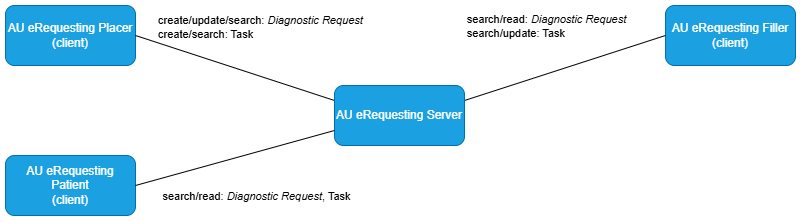
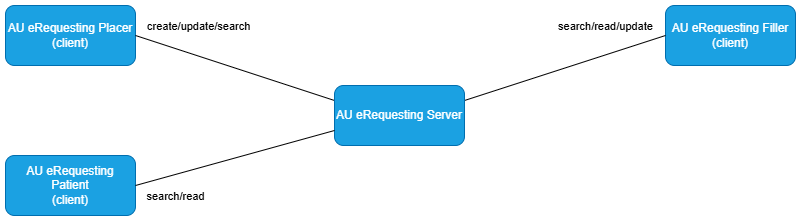
Updates during refinement meeting WIP

diff --git a/input/pagecontent/general-guidance.md b/input/pagecontent/general-guidance.md
@@ -1,14 +1,14 @@
 ### Diagnostic request grouping
 
-In AU eRequesting, grouping is applied to diagnostic requests created by an AU eRequesting Placer actor. This reflects common patterns in Australia, where multiple related pathology tests or imaging exams are ordered in a single request.
+**check page for updates**
 
-AU eRequesting follows the [shared requisition id pattern](https://hl7.org/fhir/request.html#requisitionid) from the [FHIR Request pattern](https://hl7.org/fhir/request.html), where multiple request resources created as part of the same ordering event share a common requisition id. In this context, the Placer Group Number (PGN) is used as the shared identifier, assigned by the AU eRequesting Placer actor at the time of request creation.
+In AU eRequesting, grouping is applied to diagnostic requests created by an AU eRequesting Placer actor. This reflects common patterns in Australia, where multiple related pathology tests or imaging exams are ordered in a single event.
 
-**ADD to intro information about Task and Task Group**
-
-Each diagnostic request is represented as a ServiceRequest and is paired with a corresponding Diagnostic Request Task, which allows the AU eRequesting Filler actor to manage and track fulfilment of that individual request.
+AU eRequesting follows the [shared requisition id pattern](https://hl7.org/fhir/request.html#requisitionid) from the [FHIR Request pattern](https://hl7.org/fhir/request.html), where multiple request resources created as part of the same ordering event share a common requisition id/group identifier. In this context, the Placer Group Number (PGN) is used as the shared identifier, assigned by the AU eRequesting Placer actor at the time of request creation.
 
 A Task Group is always included to represent and coordinate the overall diagnostic order. It allows the AU eRequesting Filler actor to manage the group as a single order, supporting fulfilment, progress tracking and status updates across the group.
+
+Each diagnostic request is represented as a ServiceRequest and is paired with a corresponding Diagnostic Request Task, which allows the AU eRequesting Filler actor to manage and track fulfilment of that individual request.
 
  <div> 
     <img src="erequesting-group.png" alt="AU eRequesting Diagnostic Request Grouping" style="width:90%"/>
@@ -16,6 +16,9 @@ A Task Group is always included to represent and coordinate the overall diagnost
 *Figure 1: AU eRequesting Diagnostic Request Grouping*
 
 #### Diagnostic request grouping features
+
+**check page for updates**
+
 - A group **SHALL** always be established, even when the order contains only a single diagnostic request. This ensures implementation consistency and enables uniform fulfilment processing
 - Each diagnostic request is represented as a ServiceRequest, one for each test or exam, and is paired with a corresponding Task for fulfilment tracking
 - A single group FHIR Task resource  is the root of the entire request structure, or web of resources 
@@ -28,10 +31,7 @@ A Task Group is always included to represent and coordinate the overall diagnost
 - Placer Group Number (PGN) identifier is used to logically associate all related requests and tasks that were created as part of the same request order:
     - `ServiceRequest.requisition` = Placer Group Number (PGN) identifier
     - `Task.groupIdentifier` = Placer Group Number (PGN) identifier
-- The `displaySequence` element on ServiceRequest reflects the visual order or sequence of requests as they appear on a paper request form
-- The `supportingInfo` element on ServiceRequest can include references to other resources that contain clinical information relevant to the request. These resources can be referenced by all ServiceRequests in a group, when the information applies to the entire order, or by individual ServiceRequests, when the information is specific to particular requests. Referenced resources includes:
-    - PregnancyStatus - an Observation representing the patient's pregnancy status
-    - ClinicalContext - a DocumentReference containing clinical context narrative information providing
+- The `displaySequence` element on ServiceRequest reflects the visual order or sequence of requests within the group as they appear on a paper request form
 
 ### Implementation considerations
 

diff --git a/input/pagecontent/index.md b/input/pagecontent/index.md
@@ -34,9 +34,9 @@ The diagram below shows typical FHIR RESTful interactions between these AU eRequ
 *Figure 1: FHIR RESTful interactions*
 <br/>
 
-*Note*: Diagnostic Request refers to the ServiceRequest and related FHIR resources that provide context. Providing the Diagnostic Request's fulfilment context is the FHIR Task resource.
-
 ### AU eRequesting typical sequence - DIAGRAM TO BE UPDATED. TEXT?
+**New diagram**
+**Add to text something that indicates that the diagram is the primary/key resources involved, others are also involved eg Patient, PractitionerRole etc**
 
 The AU eRequesting Placer actor can create and update ServiceRequest details by calling the AU eRequesting Server actor.
 
